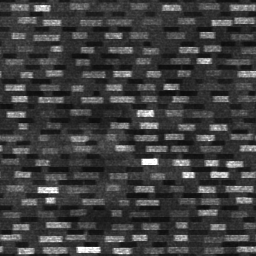
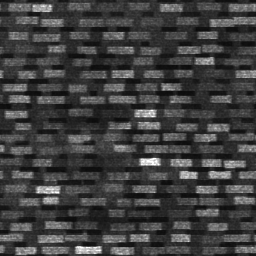
cabin777 py wave 3b final (w14 A 8.4 / B 8.4, round cap): post-rating fixes - ear chips pointed, notched, log-normal sizes plus bright flecks (py_37305); back weave blocks fill ~0.6 of the row at light gain 1.75 (py_37301 p90/p50 1.25); trim-B petal tile seed 17, 21 px spacing (no Y clusters); pyFab
Claude-Session: https://claude.ai/code/session_01FsG2Q5xC72sRzosGyzXNKL

diff --git a/cabin777/src/09_seats.js b/cabin777/src/09_seats.js
@@ -61,10 +61,10 @@ const SEATMAT = {
   // shells / wall 0.38-0.42 (san_03 71-82 / 189, py_37303) [D]
   // ANA official look (user decision): wall-balanced consensus of py_37301-05 (wall = #e8e8e8): back #7f8490, wing #848899,
   // flap #3c4770 (B/R ~1.8 sRGB), shell #75808c, console #6c7684; all blue-grey (B > G >= R) [D]
-  pyFabric: { c: photoBase('#7b8498', 'py_back'), r: 0.9, l: LAYER.pyFleck },   // w6: steel grey-blue, saturation ~0.2 (py_37301 / 37303 / 37305 0.15-0.21, A + B); w13 (A + B): cushion S 0.10-0.12 vs 0.17-0.18 -> #7b8498 [D]
+  pyFabric: { c: photoBase('#7d8596', 'py_back'), r: 0.9, l: LAYER.pyFleck },   // w6: steel grey-blue, saturation ~0.2 (py_37301 / 37303 / 37305 0.15-0.21, A + B); w13 (A + B): cushion S 0.10-0.12 vs 0.17-0.18 -> #7b8498 [D]
   pyCover: { c: '#343f60', r: 0.45, l: LAYER.plastic },   // navy satin leatherette, fine pebble grain; #34406e rendered royal blue (ACES) vs py_37302 #2f3c6c; w11 (A + B): leather grain 2-4x the photo -> plastic (fine, faint)
   pyWing: { c: photoBase('#6d7588', 'py_confetti'), r: 0.9, l: LAYER.pyConfetti },   // w6: wing / back ~0.9-1.0 (py_37301 / 37305, A + B); w12 (A): bluer petal ground (trim-B back #697ba1 on the real seat) [D]
-  pyEar: { c: photoBase('#666b7c', 'py_ear'), r: 0.9, l: LAYER.pyEar },   // w13 (A): trim-A ears on their own notched-chip tile, charcoal ground S ~0.2 (py_37305) [D]
+  pyEar: { c: photoBase('#6a6c76', 'py_ear'), r: 0.9, l: LAYER.pyEar },   // w13 (A): trim-A ears on their own notched-chip tile, charcoal ground S ~0.2 (py_37305) [D]
   pyWingB: { c: photoBase('#626876', 'py_back'), r: 0.9, l: LAYER.pyFleck },   // w11 (gap): trim B ears in the dash weave (py_37305 right seat, san_12) [D]
   pyShell: { c: '#6a7079', r: 0.42, l: LAYER.plastic },   // w6: darker, shroud py_37303 #4b525a (A + B) [D]
   pyArm: { c: '#545b6e', r: 0.45, l: LAYER.plastic },   // w6: console / back ~0.5 (py_37301 #505d7f, A + B); w11 (B): less blue, py_37303 / 37306 slate [D]

diff --git a/cabin777/test/make_swatches.py b/cabin777/test/make_swatches.py
@@ -108,11 +108,12 @@ def synth_py_back(ratio, seed=7):
     for r in range(rows):
         for c in range(cols):
             yc = yr[r] + rng.uniform(-0.12, 0.12) * ph
-            ln = np.clip(rng.normal(21, 4), 12, 30)          # w8 (B): more varied lengths; w13 (B): more even (TV-static read)
+            ln = np.clip(rng.normal(25, 3), 18, 30)          # w8 (B): more varied lengths; w13 (B): more even (TV-static read)
             x0 = c * cw + (cw - ln) / 2 + (cw / 4) * (r % 2) + rng.uniform(-6, 6)
             u = (x[0] - x0) % S
             seg = np.clip(np.minimum(u, ln - u) / 3.0, 0, 1) * (u < ln)   # w11 (A + B): tapered ends (hard bricks)
-            band = np.clip((3.6 - np.abs(((y[:, 0] - yc + S / 2) % S) - S / 2)) / 0.9, 0, 1)   # w11: ~4.5 mm cells, soft edges (w12 B: 2.0 -> 1.3, w13 B: 0.9)
+            band = np.clip((4.3 - np.abs(((y[:, 0] - yc + S / 2) % S) - S / 2)) / 0.9, 0, 1)   # w14 (B): blocks fill ~0.6 of the row (py_37301)
+              # w11: ~4.5 mm cells, soft edges (w12 B: 2.0 -> 1.3, w13 B: 0.9)
             lite = np.maximum(lite, band[:, None] * seg[None, :] * np.clip(rng.normal(1, 0.25), 0.5, 1.5) * dim[r, c])
             # w6 (A + B): the navy-slate dash set (py_37301 / 37305 dark-dash cover 7-32 %); w7: on its own band between
             # the light rows so the two sets interlock into a mosaic (A + B)
@@ -137,7 +138,7 @@ def synth_py_back(ratio, seed=7):
     thr = _blur_wrap(thr, 0.45)
     lite *= 0.88 + 0.22 * thr;   # w13 (B): flatter blocks
     dark *= 0.85 + 0.25 * thr   # w12 (A + B): the w11 threads overshot into a melange
-    out = (1 + 2.1 * lite) * (1 - 0.7 * dark)     # w7: light ~2.9x, dark ~0.3x the ground; w12 (A + B): back std / float cover to py_37301 / 37305
+    out = (1 + 1.75 * lite) * (1 - 0.7 * dark)     # w7: light ~2.9x, dark ~0.3x the ground; w12 (A + B): back std / float cover to py_37301 / 37305
     out *= 0.88 + 0.24 * thr                       # w11: the ground is woven too (threads read between the blocks, py_37305)
     # brick patches on a 2-col x 2-row lattice (block std/mean ~0.15, py_37305), crisp edges softened 0.5 px
     blk = np.exp(rng.normal(0, 0.18, (rows // 2, cols // 2)))
@@ -161,27 +162,29 @@ def synth_py_confetti(ratio, seed=11, ear=False):
     # san_12 trim-B back) [D]
     mo = _blur_wrap(rng.normal(0, 1, (S, S)), 2.5); out *= np.exp(0.12 * mo / mo.std())
     pts = []
-    while len(pts) < (18 if ear else 50):   # w13: ear 18 chunky chips (A, py_37305 ~40 per ear); back 50 (B, py_37302 cover 0.09)                          # w5 (A + B): varied chips; w11 (gap): 32 smaller ones (san_12 / py_37305)
+    while len(pts) < (26 if ear else 50):   # w13: ear 18 chunky chips (A, py_37305 ~40 per ear); back 50 (B, py_37302 cover 0.09)                          # w5 (A + B): varied chips; w11 (gap): 32 smaller ones (san_12 / py_37305)
         p = rng.uniform(0, S, 2)
-        if all(min(abs(p[0] - q[0]), S - abs(p[0] - q[0])) ** 2 + min(abs(p[1] - q[1]), S - abs(p[1] - q[1])) ** 2 > (30 if ear else 16) ** 2 for q in pts): pts.append(p)
+        if all(min(abs(p[0] - q[0]), S - abs(p[0] - q[0])) ** 2 + min(abs(p[1] - q[1]), S - abs(p[1] - q[1])) ** 2 > (24 if ear else 21) ** 2 for q in pts): pts.append(p)
     for cy, cx in pts:
         dy = (yy - cy + S / 2) % S - S / 2; dx = (xx - cx + S / 2) % S - S / 2
-        a = rng.uniform(0, 2 * np.pi); e = rng.uniform(1.1, 1.9) if ear else rng.uniform(1.8, 3.2)   # w12 (B): 2-3:1 slivers on the trim-B back (py_37302, san_12)
-        req = np.clip(rng.normal(10, 3), 5, 15) if ear else np.clip(rng.normal(5.5, 1.8), 3, 8.5)   # w13 (A): ear chips chunky, mixed size (py_37305)
+        a = rng.uniform(0, 2 * np.pi); e = rng.uniform(1.4, 2.2) if ear else rng.uniform(1.8, 3.2)   # w12 (B): 2-3:1 slivers on the trim-B back (py_37302, san_12)
+        req = np.clip(np.exp(rng.normal(np.log(7), 0.35)), 4, 12) if ear else np.clip(rng.normal(5.5, 1.8), 3, 8.5)   # w13 (A): ear chips chunky, mixed size (py_37305)
         u = dx * np.cos(a) + dy * np.sin(a); v = -dx * np.sin(a) + dy * np.cos(a)
         th = np.arctan2(v * e, u); rr = np.hypot(u / np.sqrt(e), v * np.sqrt(e))
-        k = rng.integers(5, 8); ph0 = rng.uniform(0, 6)
+        k = rng.integers(4, 6) if ear else rng.integers(5, 8); ph0 = rng.uniform(0, 6)
         # polygonal chip: facets from a k-gon, pointed tip at th=0, shallow notch at th=pi (sakura petal)
         poly = (np.cos(np.pi / k) / np.cos((th + ph0) % (2 * np.pi / k) - np.pi / k)) ** 1.0   # sharp facets
-        nd = 0.35 if ear and rng.random() < 0.4 else 0.22   # w13 (A): deep notch on ~40 % of the ear chips
-        prof = req * poly * (1 + 0.18 * np.cos(th)) * (1 - nd * np.exp(-((np.abs(th) - np.pi) / 0.25) ** 2))
+        nd = 0.35 if ear and rng.random() < 0.6 else 0.22   # w13 (A): deep notch on the ear chips; w14 (A + B): 60 %, wider, pointed tips
+        tip, nw = (0.35, 0.45) if ear else (0.18, 0.25)
+        prof = req * poly * (1 + tip * np.cos(th)) * (1 - nd * np.exp(-((np.abs(th) - np.pi) / nw) ** 2))
         out += (4.2 if ear else 4.8) * np.clip(rng.normal(1, 0.15), 0.7, 1.3) * np.clip((prof - rr) / 0.6, 0, 1)   # w11: crisper corners
     for cy, cx in rng.uniform(0, S, (140 if ear else 60, 2)):   # w13 (A): dense tiny specks on the ear
         rr = np.hypot((yy - cy + S / 2) % S - S / 2, (xx - cx + S / 2) % S - S / 2)
         out += rng.uniform(0.3, 0.6) * np.clip((rng.uniform(2, 5) - rr) / 1.0, 0, 1)
-    for cy, cx in rng.uniform(0, S, (0, 2)):       # w12 (B): round mid-size specks dropped (read as snow)
-        rr = np.hypot((yy - cy + S / 2) % S - S / 2, (xx - cx + S / 2) % S - S / 2)
-        out += rng.uniform(0.6, 1.0) * np.clip((rng.uniform(2, 3.5) - rr) / 1.0, 0, 1)   # w11: faint (read as snow on the trim-B backs)
+    for cy, cx in rng.uniform(0, S, (40 if ear else 0, 2)):   # w12 (B): round mid specks dropped on the back; w14 (B): 40 small bright elongated flecks on the ear
+        dy = (yy - cy + S / 2) % S - S / 2; dx = (xx - cx + S / 2) % S - S / 2; a = rng.uniform(0, np.pi); e = rng.uniform(1.3, 2.0)
+        rr = np.hypot((dx * np.cos(a) + dy * np.sin(a)) / np.sqrt(e), (-dx * np.sin(a) + dy * np.cos(a)) * np.sqrt(e))
+        out += rng.uniform(3.0, 4.0) * np.clip((rng.uniform(2, 3.5) - rr) / 0.8, 0, 1)   # w11: faint (read as snow on the trim-B backs)
     out *= np.exp(0.08 * _blur_wrap(rng.normal(0, 1, (S, S)), 0.8) / 0.25)
     return np.repeat(out[:, :, None], 3, 2)
 
@@ -232,7 +235,8 @@ def synth_j_pillow(ratio):
     return np.repeat(r[:, :, None], 3, 2)
 
 
-SYNTH = {'py_back': synth_py_back, 'py_confetti': synth_py_confetti, 'py_ear': lambda r: synth_py_confetti(r, ear=True), 'y_tick': synth_y_tick, 'j_pillow': synth_j_pillow}
+SYNTH = {'py_back': synth_py_back, 'py_confetti': lambda r: synth_py_confetti(r, seed=17),   # w14 (B): seed 17, no stamped Y clusters
+         'py_ear': lambda r: synth_py_confetti(r, ear=True), 'y_tick': synth_y_tick, 'j_pillow': synth_j_pillow}
 
 
 def tileable(a):

diff --git a/cabin777/review/qa/py_report.md b/cabin777/review/qa/py_report.md
@@ -149,3 +149,64 @@ it, and both raters judged colour in the studio renders.
 - The Alviator, Business Traveller and Flickr were blocked from the sandbox this wave, so the alv_* photos cited in
   wave 1 were not re-checked.
 - Before/after: `py_before_after.jpg` (own renders only).
+
+## Wave 3b, plateau breaker (w11-w14)
+
+Start: 1432360 (the w10 post-rating fixes, unrated). The 4-round cap of the plateau rule was reached at **8.4 / 8.4**.
+The 8.5 target was met by rater B in w13 (8.5) but not by both in the same round. No high issue was raised in any round.
+The last two rounds gained less than 0.2, so the stop rule applies too.
+
+| round | rater A | rater B | mean | fixed in |
+|---|---|---|---|---|
+| w11 (1432360) | 8.1 | 8.3 | 8.2 | 270fdf2, 315110d (+ gap analysis `py_gap_w11.md`) |
+| w12 (315110d) | 8.2 | 8.4 | 8.3 | 99b6600 |
+| w13 (99b6600) | 8.3 | 8.5 | 8.4 | e3268a7 |
+| w14 (e3268a7) | 8.4 | 8.4 | 8.4 | post-rating fixes (ears, weave, petal spacing, colours), not re-rated |
+
+### What changed
+- **Two seat trims (gap analysis, the biggest gain).**
+  - ANA alternates two trims. Trim A has a dash-weave back and cushion with petal ears. Trim B has a petal back and
+    cushion with dash-weave ears.
+  - Evidence: py_37302's foreground seat (a centre-block aisle seat) is B, SANspotter 26G is B (san_12) and 26F is A, and
+    both seats of the py_37301 window pair are A.
+  - Model: B on the centre block's aisle seats D / G, also in the far LOD (`pyUnit` / `pyUnitFar`; questions 10).
+- **Back weave (`synth_py_back`).**
+  - The w11 "pixel bricks" are redrawn as blocks woven from fine thread floats (~1.9 mm pitch, 5-10 mm floats).
+  - The ends are tapered, the brick-patch mask is blurred, and the rows are steadier.
+  - The contrast went soft in w11, was raised in w12-w13 and slightly overshot. After w14 the light gain is 1.75, with
+    wider blocks (~0.6 of the row, py_37301).
+- **Petal fabrics.**
+  - `py_confetti` (the trim-B back, 0.09 m tile) has 50 cream-grey 2-3:1 slivers on a plain mottled ground, with no dash
+    rows and no round specks.
+  - The ears have their own tile `py_ear` on the new detail layer 31: notched, pointed, log-normal chips plus small bright
+    flecks (py_37305).
+- **Literature pocket (san_26, b_san_20).**
+  - A dark recess ~0.62 of the frame width runs down the lower back, with a rear holder plate and a wide leaflet.
+  - The open tray sits at its foot. Its grey front is lofted across x so the top edge follows a deep smile rim, and a
+    mesh band follows the smile.
+- **Smaller changes:**
+  - The navy over-top strip is removed.
+  - The ears are broader and flatter.
+  - The flap uses the faint plastic grain instead of leather, which was 2-4x the photo.
+  - The console side panel is darker, and the console a little less blue (`#545b6e`).
+  - The gooseneck hose is 19 mm.
+  - The PY bezel is `#2a2c33`.
+- **Triangles** (hi LOD, `__app.scene` seat groups): 196.0k at the wave-3b start, 194.6k at the end. Savings came from 3
+  footrest ribs instead of 5 and from the pocket boxes.
+
+### Open (from w14, low unless marked)
+- Medium (A + B): the ear chips read as polka dots. The post-rating tile adds pointed tips, wider notches, log-normal
+  sizes and bright flecks; this is not re-rated.
+- Low: the back weave contrast overshot slightly in w13-w14 (p90/p50 1.37 vs 1.25). The post-rating fix lowers the gain
+  to 1.75.
+- Low: the trim-B petal repeat showed a Y-cluster motif. The post-rating fix uses seed 17 and 21 px spacing.
+- Low: the pocket colours. B wants the holder and recess lighter, while A wants the tray rim darker; they are left as is.
+  A wants the pocket another ~7 cm lower, while B says only a few cm of shell is left; it is left as is.
+- Low: the flap is dead flat (no grain or seam), and the cushion is blocky up close (p5).
+- Handed off: blank placards and the leaflet header (atlas), the sun rhombus on 26B and the cobalt cast in q13 (lighting),
+  and the q13b camera, which sits inside the seat in front (`from_py.md` items 6-8).
+
+### Sources
+- ANA py_37301-37306 (ref/ana).
+- SANspotter 2023 san_00-30 / b_san_* (ref/web/py, https://www.sanspotter.com/ana-777-300er-premium-economy/).
+- Before/after sheet `py_before_after.jpg`: w11 start vs w14, own renders only.

diff --git a/cabin777/review/qa/from_py.md b/cabin777/review/qa/from_py.md
@@ -27,3 +27,14 @@
    `q13b_pyBacks: [\`__rel('26H', 0.1, 1.45, 1.25, 0.05, -0.3)\`, ['py_37304'], 'PY seat backs']` (pairs with san_26).
 5. **To lighting, low (w5 rater B):** q14 shows a hard-edged bright quadrilateral sun patch on the window-seat back;
    please soften the window sun footprint on seats (same as the q04 item in from_integration.md).
+
+## Wave 3b (w11-w14)
+
+6. **To lighting, low (w12-w14 A + B):** q14 still shows the bright rhombus sun patch on the far window-seat back (26B),
+   and in q13 the PY cloth reads cobalt and the navy flaps royal blue. A puts that at about half exposure. The studio renders
+   (neutral) match the photos' saturation (cushion S 0.16 vs 0.18), so no PY material was retuned for it.
+7. **To integration (`src/06_atlas.js`), repeat of item 3:** the placards are still blank. Also, the new literature-pocket
+   leaflet (`09b_py.js`, `gQuad(0.16, 0.07)` in the pocket mouth) could take an atlas rect `pyCard` (white, purple
+   '777-300' header band, san_26 / b_san_20).
+8. **Shared-file note:** PY added detail layer 31 `pyEar` in `03_tex.js` (LAYER, N_LAYERS 32, PHOTO_LAYERS / PHOTO_GAIN /
+   PHOTO_ENC / LAYER_PARAMS, procedural fallback `L[31] = L[17]`), commit e3268a7. The next new layer is 32.
